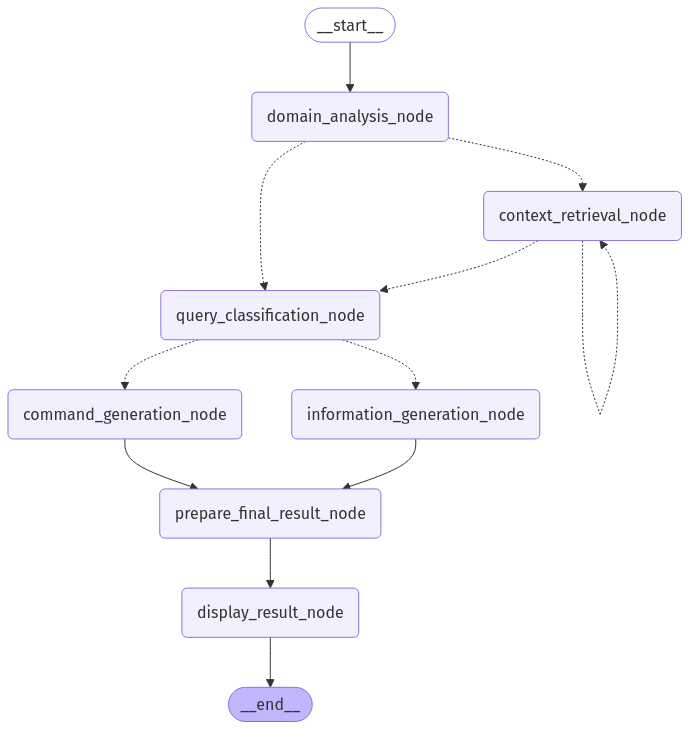
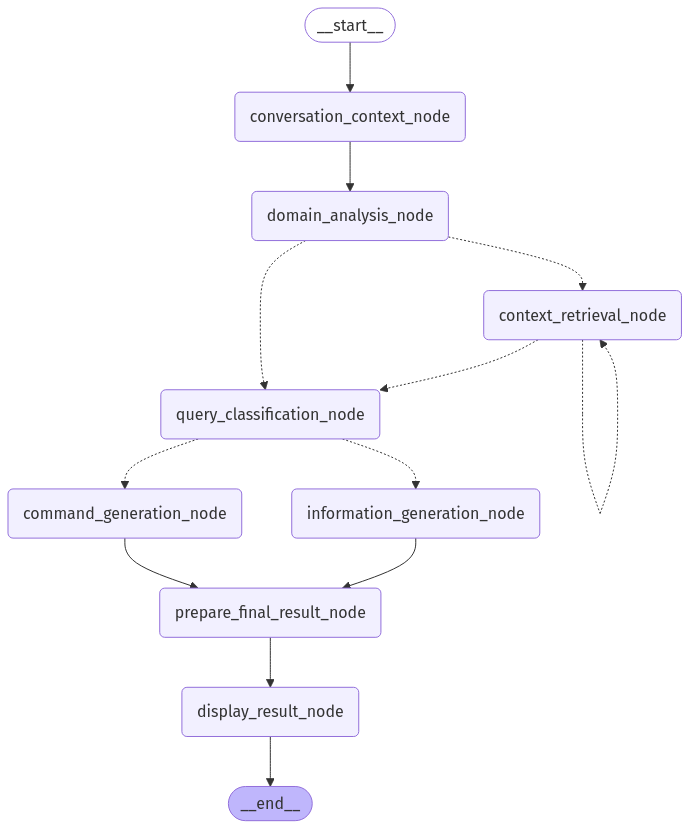
fixed memory problem by adding an agent

diff --git a/examples/Experimental_Code_lang/src/graph/nodes.py b/examples/Experimental_Code_lang/src/graph/nodes.py
@@ -1,6 +1,6 @@
 import json
 from typing import Dict, List, Optional
-
+from datetime import datetime
 from langchain.schema import HumanMessage
 import sys
 import os
@@ -307,15 +307,20 @@ def information_generator_node(state: LinuxAssistantState) -> LinuxAssistantStat
     if not combined_context:
         combined_context = "No specific context was retrieved for the relevant domains."
 
-    # Strengthened prompt demanding ONLY JSON
-    prompt = f"""Answer this question: '{state["prompt"]}' using the following context:
+    # Enhanced prompt for better information responses
+    prompt = f"""Answer this question from a Linux user: '{state["prompt"]}' using the following context from their system:
     {combined_context}
 
-    IMPORTANT INSTRUCTIONS:
-    - The context contains information from the user's ACTUAL SYSTEM.
-    - Treat this as personalized information about THEIR specific device/environment.
-    - Reference specific details from the context (timestamps, paths, usernames, etc.).
-    - Use phrases like "your system", "on your device", "in your configuration".
+    IMPORTANT GUIDELINES:
+    1. Start with a direct answer to the question in the first sentence
+    2. Provide a complete, detailed explanation that fully addresses all aspects of the question
+    3. Format your answer as natural paragraphs, not bullet points or fragments
+    4. Include specific details from the user's system found in the context (paths, usernames, timestamps, etc.)
+    5. Frame everything as "your system" or "on your device" to personalize the response
+    6. If answering a follow-up question, make sure your answer stands alone and is comprehensive
+    7. Create a thorough response that would satisfy someone looking for detailed information
+
+    For example, instead of "The file is in /home/user", say "The file test.txt is located in your home directory at /home/user. This directory is where most of your personal files are stored on your Linux system."
 
     IMPORTANT: Your response MUST be ONLY a valid JSON object conforming to the specified format.
     Do NOT include any introductory text, explanations, apologies, or any characters before the opening '{{' or after the closing '}}'.
@@ -433,8 +438,95 @@ def prepare_final_result_node(state: LinuxAssistantState) -> LinuxAssistantState
     return state
 
 
+def conversation_context_node(state: LinuxAssistantState) -> LinuxAssistantState:
+    """Provide conversation context by analyzing history and refining the prompt"""
+    print("\nAnalyzing conversation context...")
+    
+    # Access conversation history
+    conversation_history = state.get("conversation_history", [])
+    
+    # If this is the first interaction, nothing to enhance
+    if not conversation_history:
+        print("No conversation history found. Processing original query.")
+        return state
+    
+    # Get the current prompt and previous interactions
+    current_prompt = state["prompt"]
+    
+    # Format conversation history for the LLM with ranking by relevance
+    formatted_history = ""
+    
+    # Include the most recent 3-5 interactions, prioritizing those that seem most relevant
+    recent_history = conversation_history[-5:]
+    for idx, entry in enumerate(recent_history):
+        query = entry.get('query', 'N/A')
+        
+        # Format the response based on the type
+        response = entry.get('response', {})
+        if isinstance(response, dict):
+            if entry.get('response_type') == "command":
+                cmd = response.get('command', 'N/A')
+                explanation = response.get('explanation', 'N/A')
+                formatted_history += f"Interaction {idx+1}:\nUser: {query}\nAssistant: I suggested this command: '{cmd}'\n{explanation}\n\n"
+            elif entry.get('response_type') == "information":
+                answer = response.get('answer', 'N/A')
+                formatted_history += f"Interaction {idx+1}:\nUser: {query}\nAssistant: {answer}\n\n"
+        else:
+            formatted_history += f"Interaction {idx+1}:\nUser: {query}\nAssistant: {str(response)}\n\n"
+    
+    # Improved prompt for context analysis and query enhancement
+    context_prompt = f"""As an AI assistant helping with Linux questions, I need to understand the context of this conversation. Here's the relevant history:
+
+{formatted_history}
+
+The user's latest query is: "{current_prompt}"
+
+Analyze this situation and determine:
+1. Is this a follow-up question that references something from the conversation history?
+2. Does it contain vague references (like "it", "that file", "the command") that need clarification?
+3. Is it asking for more details about something previously discussed?
+
+Based on your analysis, rewrite the query to be self-contained and include all relevant context.
+
+Instructions:
+- If the query directly references previous items, include their specific names/details
+- If asking about properties of something mentioned before, include what that thing is
+- Make the query comprehensive but natural-sounding
+- Frame as a complete question that can stand on its own
+
+Format your response as ONLY the rewritten query, with no additional explanation.
+"""
+
+    # Ask the model to enhance the query
+    messages = [HumanMessage(content=context_prompt)]
+    refined_prompt = model.invoke(messages)
+    
+    # Clean up any potential formatting issues
+    refined_prompt = refined_prompt.strip()
+    if refined_prompt.startswith('"') and refined_prompt.endswith('"'):
+        refined_prompt = refined_prompt[1:-1]
+    
+    # If the model returns something that looks like an explanation rather than a query,
+    # or if the refined prompt isn't substantially different, use the original
+    if (len(refined_prompt.split()) > len(current_prompt.split()) * 3 or
+        "I don't need to enhance" in refined_prompt or
+        "The query is self-contained" in refined_prompt or
+        refined_prompt == current_prompt):
+        print("Query is self-contained or refinement unsuccessful. Using original.")
+        return state
+    
+    print(f"Original query: {current_prompt}")
+    print(f"Enhanced query: {refined_prompt}")
+    
+    # Store both the original and refined prompts
+    state["original_prompt"] = current_prompt
+    state["prompt"] = refined_prompt
+    
+    return state
+
+
 def display_result_node(state: LinuxAssistantState) -> LinuxAssistantState:
-    """Display the final result to the user"""
+    """Display the final result to the user and record in conversation history"""
     if not state.get("final_result"):
         print("\nError: No final result generated.")
         return state
@@ -480,4 +572,31 @@ def display_result_node(state: LinuxAssistantState) -> LinuxAssistantState:
                  print(f"- {sources}") # Handle if sources is not a list unexpectedly
 
     print("\n" + "="*60)
+    
+    # Record this interaction in conversation history
+    try:
+        # Create a conversation entry
+        entry = {
+            "timestamp": datetime.now().isoformat(),
+            "query": state.get("original_prompt", state["prompt"]),  # Use original if available
+            "refined_query": state["prompt"] if state.get("original_prompt") else None,
+            "domains": final_result["domains"],
+            "response_type": final_result["response_type"],
+            "response": final_result["response"]
+        }
+        
+        # Initialize history if not present
+        if "conversation_history" not in state:
+            state["conversation_history"] = []
+            
+        # Add entry to history
+        state["conversation_history"].append(entry)
+        
+        # Log the addition
+        history_length = len(state["conversation_history"])
+        print(f"Conversation history updated. Now contains {history_length} entries.")
+        
+    except Exception as e:
+        print(f"Warning: Could not record conversation history: {e}")
+    
     return state

diff --git a/examples/Experimental_Code_lang/src/models/schemas.py b/examples/Experimental_Code_lang/src/models/schemas.py
@@ -1,5 +1,6 @@
-from typing import List, Literal, Union, Optional
+from typing import List, Literal, Union, Optional, Dict, Any
 from pydantic import BaseModel, Field, field_validator
+from datetime import datetime
 
 
 class DomainAnalysis(BaseModel):
@@ -47,4 +48,20 @@ class FinalResult(BaseModel):
     response: Union[CommandResponse, InformationResponse] = Field(...,
                     description="The actual response content (either CommandResponse or InformationResponse)")
     context_summary: str = Field(..., description="Summary of the context sources used (e.g., 'Analyzed information from: file_system, networking')")
+
+class ConversationEntry(BaseModel):
+    """Model for a single conversation entry in history"""
+    timestamp: str = Field(..., description="ISO format timestamp of when the interaction occurred")
+    query: str = Field(..., description="Original user query")
+    refined_query: Optional[str] = Field(None, description="Query after context enhancement (if applicable)")
+    domains: List[str] = Field(..., description="Domains that were relevant to this query")
+    response_type: Literal["command", "information"] = Field(..., description="Type of response provided")
+    response: Union[Dict[str, Any], CommandResponse, InformationResponse] = Field(..., 
+                    description="The response provided (either CommandResponse or InformationResponse)")
+
+class ConversationSummary(BaseModel):
+    """Model for conversation summary"""
+    summary: str = Field(..., description="Summary of the conversation context")
+    key_topics: List[str] = Field(..., description="Key topics discussed in the conversation")
+    last_updated: str = Field(..., description="ISO format timestamp of when the summary was last updated")
 

diff --git a/examples/Experimental_Code_lang/src/graph/builder.py b/examples/Experimental_Code_lang/src/graph/builder.py
@@ -2,6 +2,7 @@ from langgraph.graph import StateGraph, END
 from langgraph.checkpoint.memory import MemorySaver
 from .state import LinuxAssistantState
 from .nodes import (
+    conversation_context_node,  # Add the new node import
     domain_analysis_node,
     context_retrieval_node,
     query_classifier_node,
@@ -23,6 +24,7 @@ def build_linux_assistant_graph():
     workflow = StateGraph(LinuxAssistantState)
 
     # Add nodes
+    workflow.add_node("conversation_context_node", conversation_context_node)  # Add the new node
     workflow.add_node("domain_analysis_node", domain_analysis_node)
     workflow.add_node("context_retrieval_node", context_retrieval_node)
     workflow.add_node("query_classification_node", query_classifier_node)
@@ -31,8 +33,11 @@ def build_linux_assistant_graph():
     workflow.add_node("prepare_final_result_node", prepare_final_result_node)
     workflow.add_node("display_result_node", display_result_node)
 
-    # Set the entry point
-    workflow.set_entry_point("domain_analysis_node")
+    # Set the entry point to the conversation context node
+    workflow.set_entry_point("conversation_context_node")
+    
+    # Add edge from conversation context to domain analysis
+    workflow.add_edge("conversation_context_node", "domain_analysis_node")
 
     # Add conditional edges for context retrieval loop
     workflow.add_conditional_edges(

diff --git a/examples/Experimental_Code_lang/src/config/settings.py b/examples/Experimental_Code_lang/src/config/settings.py
@@ -2,7 +2,7 @@ import os
 from langchain_ollama import OllamaLLM
 
 # Ensure the NGROK URL is correct or use your local Ollama endpoint
-MODEL_BASE_URL = os.environ.get("OLLAMA_BASE_URL", "https://34ae-35-243-144-241.ngrok-free.app") 
+MODEL_BASE_URL = os.environ.get("OLLAMA_BASE_URL", "https://cc1d-34-145-73-84.ngrok-free.app") 
 MODEL_NAME = "llama3"
 
 model = OllamaLLM(model=MODEL_NAME, base_url=MODEL_BASE_URL)

diff --git a/src/os_assistant/tools/Agentic_RAG/src/agentic_rag/config/config.py b/src/os_assistant/tools/Agentic_RAG/src/agentic_rag/config/config.py
@@ -1,7 +1,7 @@
 import os
 from tracer.config import LogDomain
 
-OLLAMA_BASE_URL = "https://34ae-35-243-144-241.ngrok-free.app"
+OLLAMA_BASE_URL = "https://cc1d-34-145-73-84.ngrok-free.app"
 EMBEDDING_MODEL = "nomic-embed-text"
 OLLAMA_LLM_MODEL = "llama3" 
 
